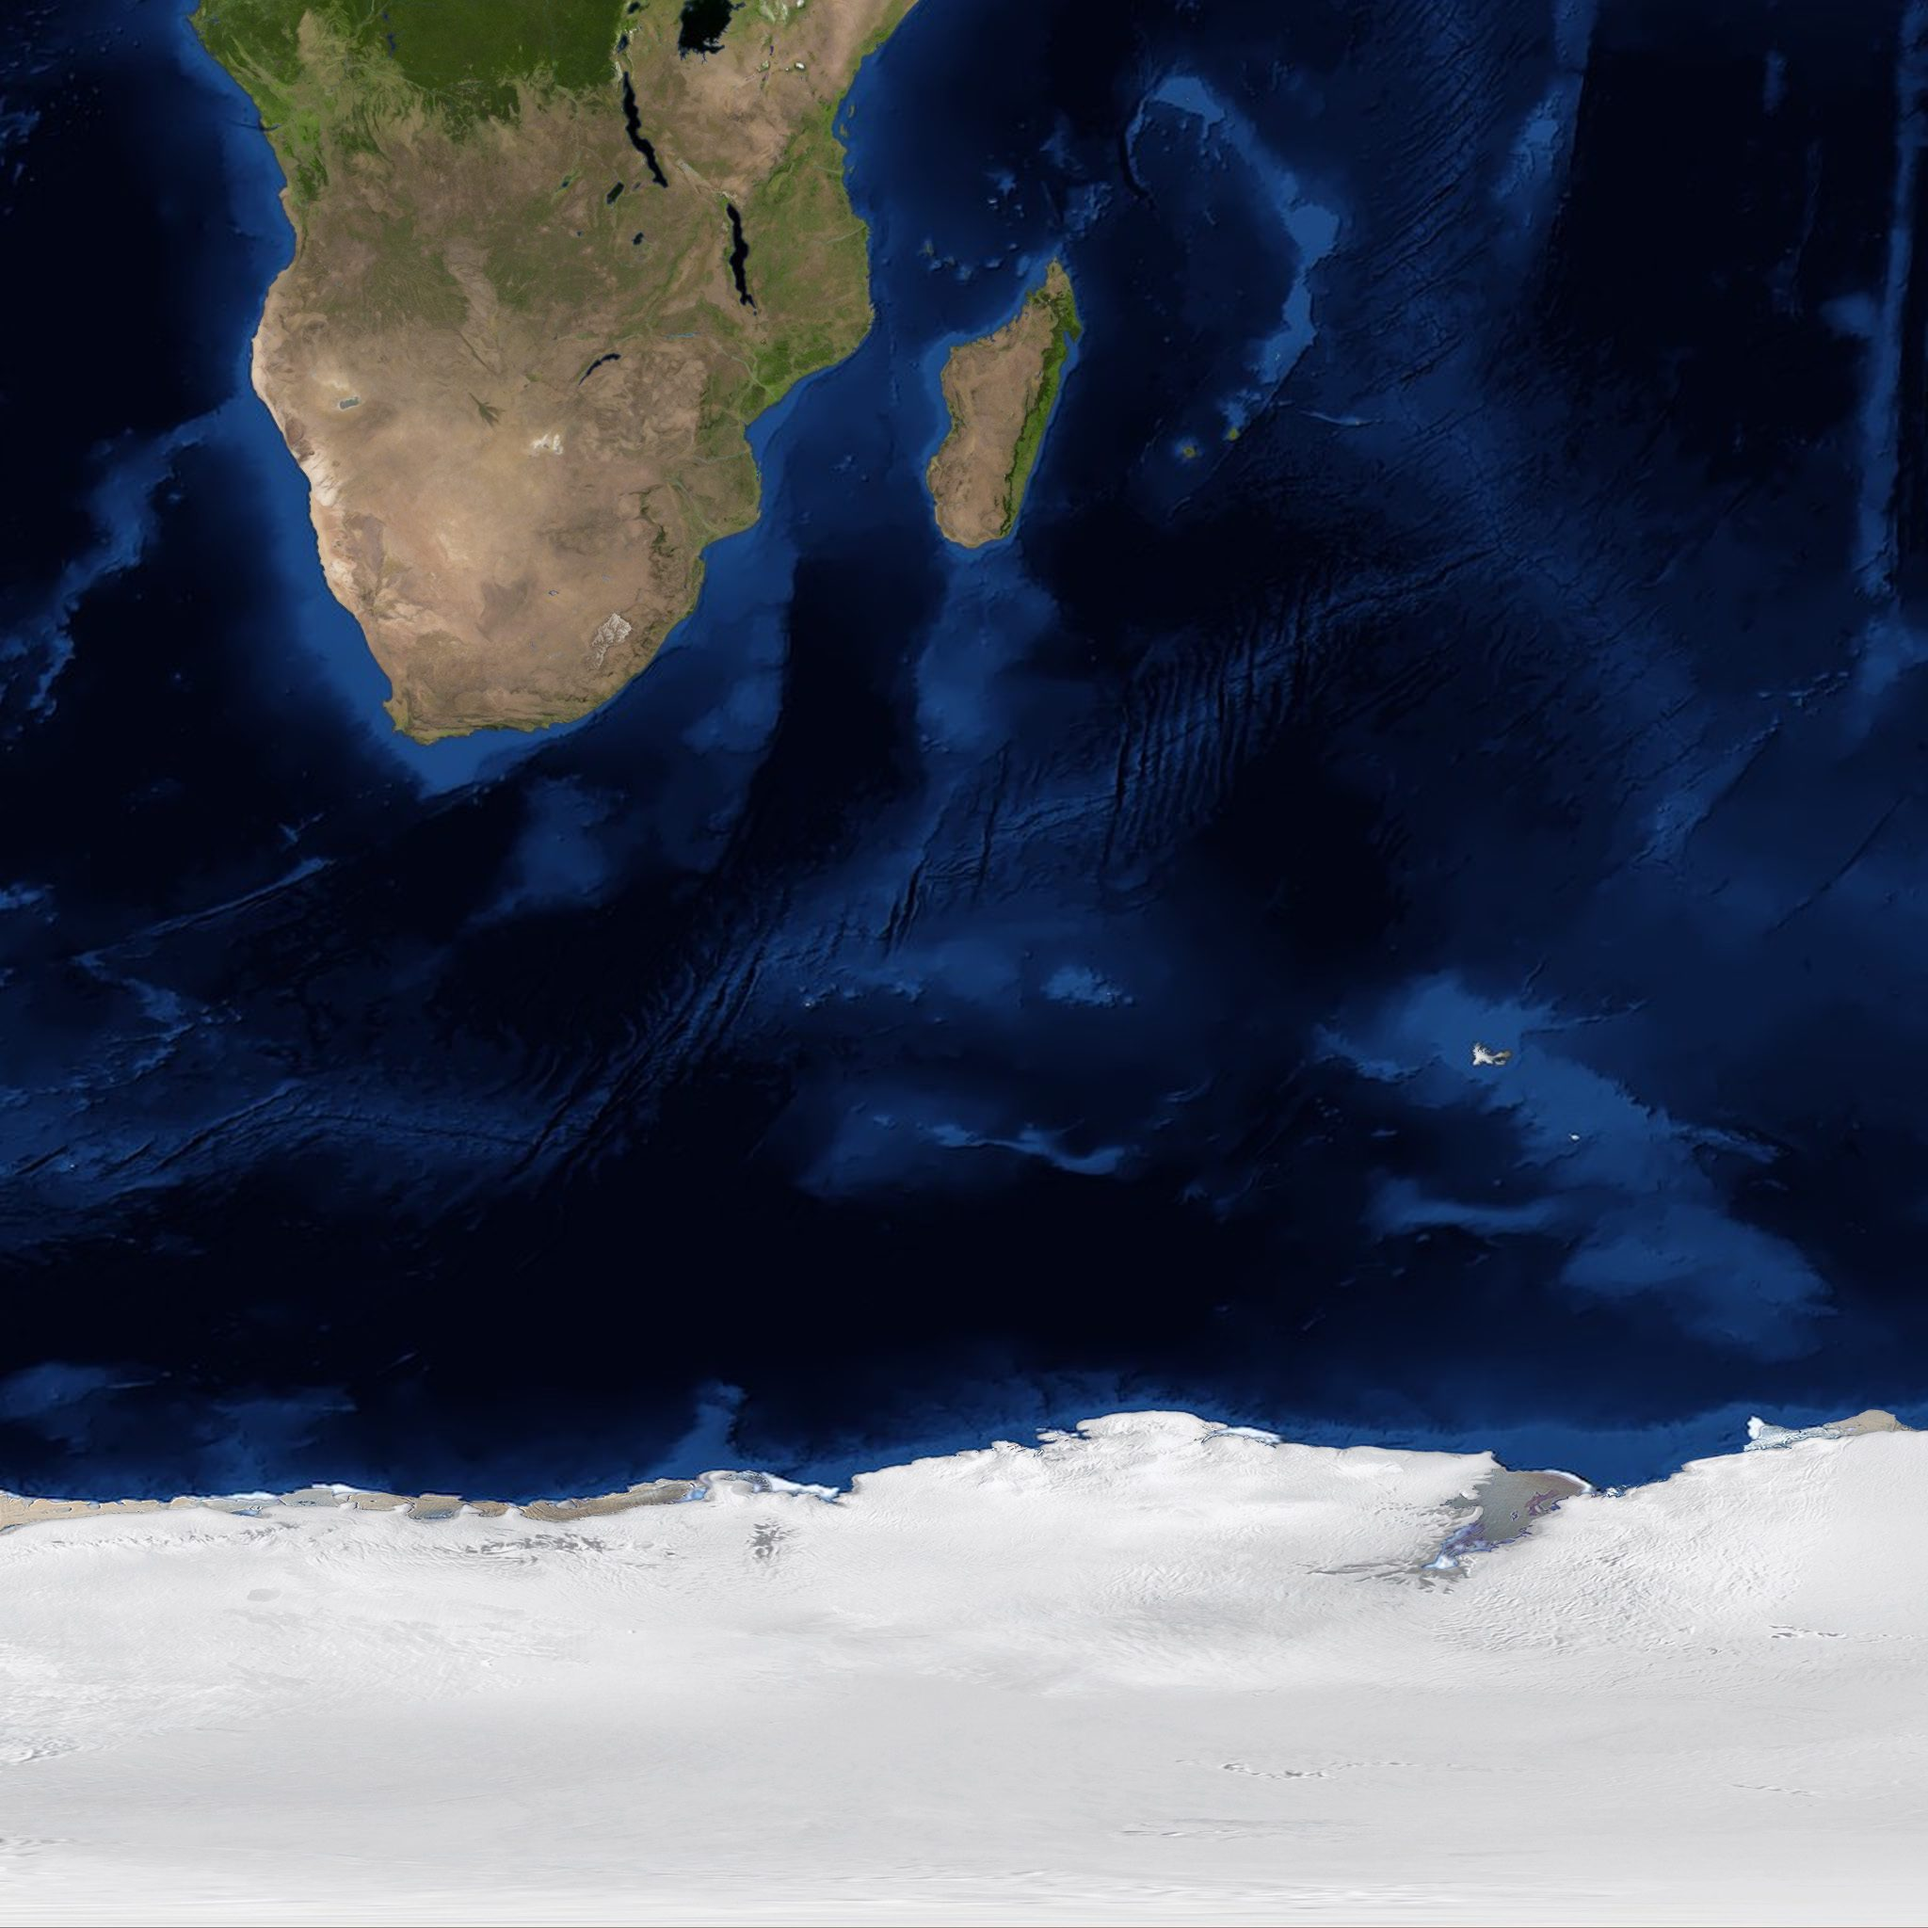
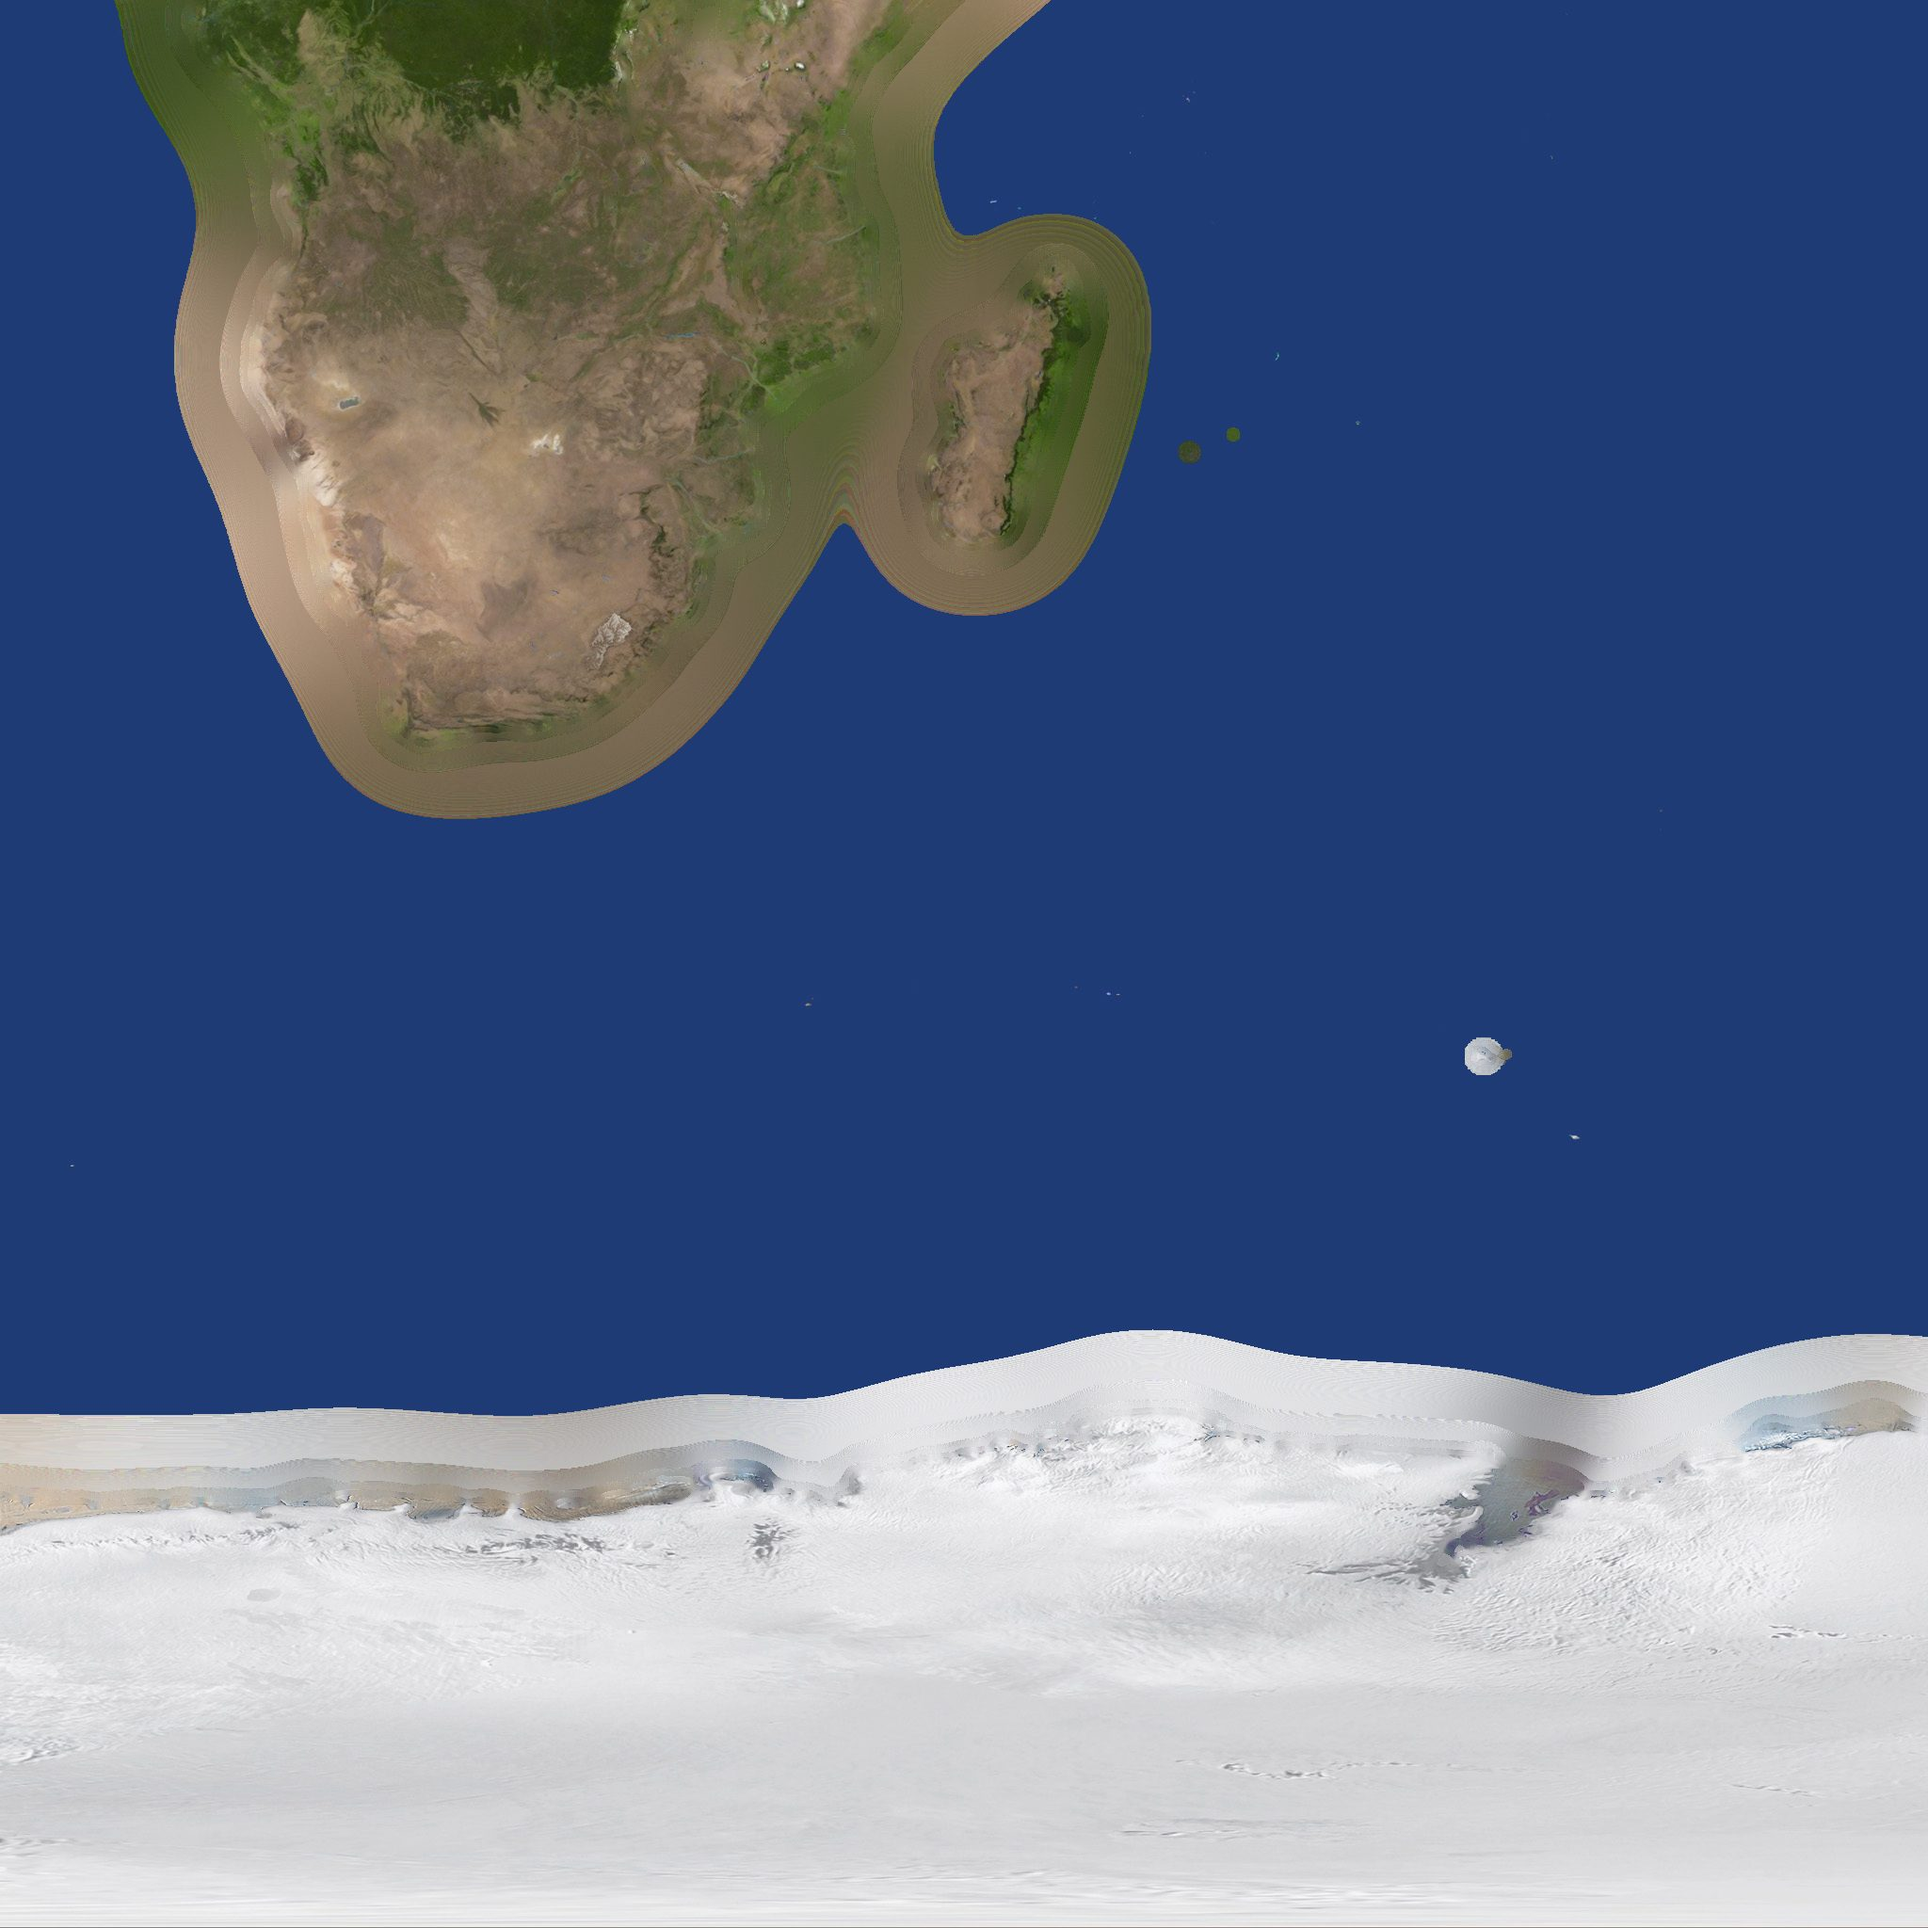
GeoPolit: separate ocean layer without sea ice, land texture clipped to borders
Claude-Session: https://claude.ai/code/session_01CWDGfJ6Tr7a2tYama4KdYf

diff --git a/geo/src/main/assets/index.html b/geo/src/main/assets/index.html
@@ -75,7 +75,7 @@ let NAT=[],RN=[],RK=[],NB=[],ARL,ARR,LOD=[null,null,null],best=null,GRAT;
 let BB,AREA,LP,LW,CEN; // region metadata (from best LOD)
 let T=d3.zoomIdentity,zoomB,sceneT=null,sceneOK=false,bdOK=false,interacting=false;
 const S0=()=>H/MH;
-const BGI=new Image();let BGOK=false;BGI.onload=()=>{BGOK=true;invalidate()};BGI.src='bg.jpg';
+const BGI=new Image();let BGOK=false;BGI.onload=()=>{BGOK=true;invalidate()};BGI.src='bg.jpg';const OCI=new Image();let OCOK=false;OCI.onload=()=>{OCOK=true;invalidate()};OCI.src='ocean.jpg';
 const TIL={};function tile(tx,ty){const k=tx+'_'+ty;let t=TIL[k];if(!t){t=TIL[k]=new Image();t.onload=()=>{t.ok=1;sceneOK=false;draw()};t.src='bg/'+k+'.jpg'}return t.ok?t:null}
 
 const COL={aq:'#e6edf3',ru:'#1d3b8f',cn:'#d0201f',us:'#4a7fd4',gb:'#b8324f',fr:'#2c6bd1',de:'#5b5b5b',it:'#2f9a4c',es:'#e2b928',pt:'#1f7a3a',
@@ -165,8 +165,10 @@ function paint(c,K,X,Y,w,h,L,regBorders,ps=1){
   const ww=MW*K,vy0=-Y/K,vy1=(h-Y)/K,own=G?G.owner:RK,P=G?G.player:-1;
   for(let cpy=0;X+cpy*ww<w;cpy++){const ox=X+cpy*ww;if(ox+ww<0)continue;
     c.setTransform(K*ps,0,0,K*ps,ox*ps,Y*ps);const vx0=-ox/K,vx1=(w-ox)/K;
-    if(BGOK)c.drawImage(BGI,0,0,MW,MH);
-    if(regBorders&&K*MW*(ps||1)>4096*1.1){for(let ty=0;ty<2;ty++)for(let tx=0;tx<4;tx++){const x0=tx*MW/4,y0=ty*MH/2;if(x0+MW/4<vx0||x0>vx1||y0+MH/2<vy0||y0>vy1)continue;const t=tile(tx,ty);if(t)c.drawImage(t,x0,y0,MW/4+.3,MH/2+.3)}}c.globalAlpha=.75;
+    if(OCOK)c.drawImage(OCI,0,0,MW,MH);
+    const land=new Path2D();for(let r=0;r<RK.length;r++){if(BB[4*r+2]<vx0||BB[4*r]>vx1||BB[4*r+3]<vy0||BB[4*r+1]>vy1)continue;land.addPath(L.paths[r])}
+    c.save();c.clip(land);if(BGOK)c.drawImage(BGI,0,0,MW,MH);
+    if(regBorders&&K*MW*(ps||1)>4096*1.1){for(let ty=0;ty<2;ty++)for(let tx=0;tx<4;tx++){const x0=tx*MW/4,y0=ty*MH/2;if(x0+MW/4<vx0||x0>vx1||y0+MH/2<vy0||y0>vy1)continue;const t=tile(tx,ty);if(t)c.drawImage(t,x0,y0,MW/4+.3,MH/2+.3)}}c.restore();c.globalAlpha=.75;
     for(let r=0;r<RK.length;r++){if(BB[4*r+2]<vx0||BB[4*r]>vx1||BB[4*r+3]<vy0||BB[4*r+1]>vy1)continue;const col=natColor(own[r]);c.fillStyle=col;c.fill(L.paths[r]);}c.globalAlpha=1;
     const pr=new Path2D(),pn=new Path2D(),pp=new Path2D(),pw=new Path2D();let hasP=false,hasW=false;
     const ab=L.abb,war=G?G.war:[];
